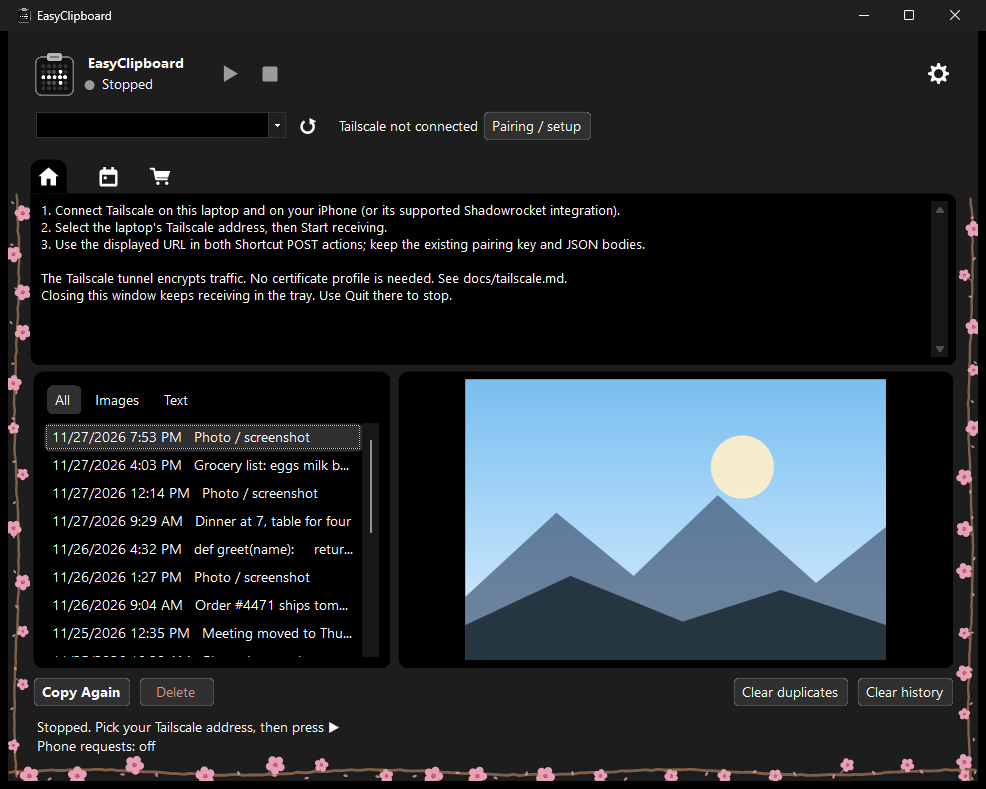
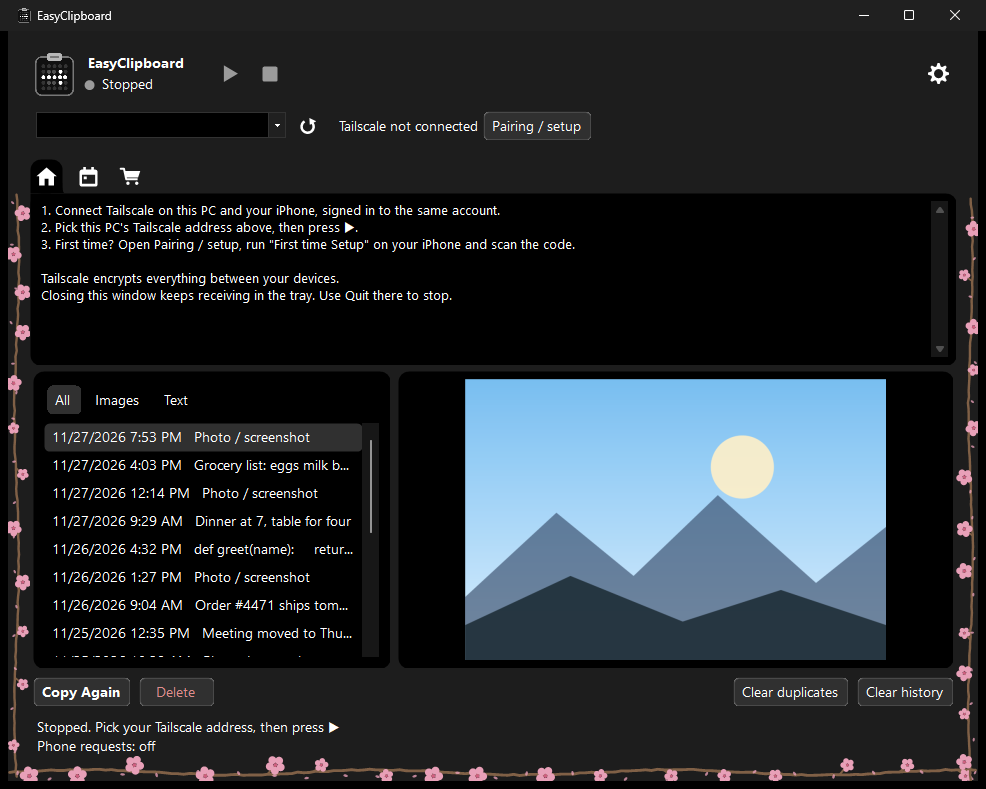
Update the Home setup text for QR pairing
Drop the Shadowrocket mention and the paste-the-URL step; point new users
to Pairing / setup and "First time Setup". Quote the Shortcut name in the
guides and retake the README Home screenshots.

Changed region(s): [[0.0304, 0.2433, 0.6389, 0.365], [0.0304, 0.2129, 0.1826, 0.2433]]

diff --git a/src/EasyClipboard/MainWindow.cs b/src/EasyClipboard/MainWindow.cs
@@ -1365,7 +1365,7 @@ internal sealed class MainWindow : Form
             return;
         }
         _setup.Text = TailscaleMode
-        ? "1. Connect Tailscale on this laptop and on your iPhone (or its supported Shadowrocket integration).\r\n2. Select the laptop's Tailscale address, then Start receiving.\r\n3. Use the displayed URL in both Shortcut POST actions; keep the existing pairing key and JSON bodies.\r\n\r\nThe Tailscale tunnel encrypts traffic. No certificate profile is needed. See docs/tailscale.md.\r\nClosing this window keeps receiving in the tray. Use Quit there to stop."
+        ? "1. Connect Tailscale on this PC and your iPhone, signed in to the same account.\r\n2. Pick this PC's Tailscale address above, then press ▶.\r\n3. First time? Open Pairing / setup, run \"First time Setup\" on your iPhone and scan the code.\r\n\r\nTailscale encrypts everything between your devices.\r\nClosing this window keeps receiving in the tray. Use Quit there to stop."
         : HomeMode
         ? $"1. Keep the iPhone and laptop on the same house Wi-Fi / LAN.\r\n2. Select the laptop's active address above, then Start receiving.\r\n3. Open Pairing / setup for the key, and follow docs/shortcut.md.\r\n\r\n{(HomeHttp ? "HTTP mode needs no iPhone profile. Content and pairing key are unencrypted." : "HTTPS mode requires the verified local certificate profile.")}\r\nClosing this window keeps receiving in the tray. Use Quit there to stop."
         : "1. Start the private hotspot.\r\n2. Open Pairing / setup for Wi-Fi credentials and certificate trust.\r\n3. Follow docs/shortcut.md.\r\n\r\nClosing this window keeps receiving in the tray. Use Quit there to stop.";

diff --git a/docs/install.md b/docs/install.md
@@ -19,7 +19,7 @@ flowchart LR
 > **Tap "Always Allow" on first run.** The first time each Shortcut reads your clipboard, pastes, sends to your PC or saves your info, iPhone asks for permission. Almost every step asks once. Tap **Always Allow** each time. If you tap **Allow Once**, it asks again on every run.
 
 > [!IMPORTANT]
-> **Install First time Setup first.** ECSend and ECReceive use what it saves. If you install them first, your iPhone won't find it and the Shortcuts won't work.
+> **Install "First time Setup" first.** ECSend and ECReceive use what it saves. If you install them first, your iPhone won't find it and the Shortcuts won't work.
 
 | Order | Shortcut | What it does | Install |
 | :---: | --- | --- | --- |
@@ -84,27 +84,27 @@ You run this once, on first use. It pairs your iPhone with your PC.
 That's it. ECSend and ECReceive use these saved values from now on, so you don't need to pick or scan again.
 
 > [!TIP]
-> Can't scan? Click **Copy all** on the PC, get the text onto your iPhone (for example by saving it to a file and choosing **Send with Tailscale**), copy it there, then run First time Setup. It reads the same four lines from the clipboard.
+> Can't scan? Click **Copy all** on the PC, get the text onto your iPhone (for example by saving it to a file and choosing **Send with Tailscale**), copy it there, then run "First time Setup". It reads the same four lines from the clipboard.
 
 > [!NOTE]
 > Screenshot to add: First time Setup after a successful scan.
 <!-- SCREENSHOT: phone-settings-scan.png -->
 
-**Changed something on the PC?** If you revoke the key or your PC gets a new address, just run First time Setup again and scan the new code. You don't need to touch ECSend or ECReceive.
+**Changed something on the PC?** If you revoke the key or your PC gets a new address, just run "First time Setup" again and scan the new code. You don't need to touch ECSend or ECReceive.
 
 ## Step 4. Install ECSend
 
 > [!TIP]
 > It's easier if you open this page in GitHub mobile, or send yourself the [Shortcut links](#shortcut-links) at the end of this page.
 
-Tap **[Get Shortcut][push]**, then **Add Shortcut**. ECSend reads your values from First time Setup and sends photos through Taildrop, which is why that comes first.
+Tap **[Get Shortcut][push]**, then **Add Shortcut**. ECSend reads your values from "First time Setup" and sends photos through Taildrop, which is why that comes first.
 
 ## Step 5. Install ECReceive
 
 > [!TIP]
 > It's easier if you open this page in GitHub mobile, or send yourself the [Shortcut links](#shortcut-links) at the end of this page.
 
-Tap **[Get Shortcut][pull]**, then **Add Shortcut**. ECReceive also reads your values from First time Setup.
+Tap **[Get Shortcut][pull]**, then **Add Shortcut**. ECReceive also reads your values from "First time Setup".
 
 > [!NOTE]
 > ECReceive only works while **Phone fetch** is on in EasyClipboard (Settings → Phone fetch). It's on by default.
@@ -163,10 +163,10 @@ Want both on one button? Make a small menu Shortcut: see [One menu for both](tip
 | "The action could not run because Tailscale is not running" | Open the **Tailscale** app, make sure it's connected, then run the Shortcut again. Keeps happening? On iPhone go to **Settings → Tailscale** and turn on **Background App Refresh**. |
 | It keeps asking for permission | You tapped **Allow Once**. Run it again and tap **Always Allow**. |
 | "Couldn't connect" or a timeout | Is Tailscale on for both devices? Is EasyClipboard showing a green dot? |
-| "…does not match this running receiver's pairing key" | The saved key is old. Run First time Setup and scan the current setup code. |
+| "…does not match this running receiver's pairing key" | The saved key is old. Run "First time Setup" and scan the current setup code. |
 | "…this receiver expects 64" | Extra spaces or the word "Bearer" got pasted into the key. Paste only the 64-character code. |
-| ECSend or ECReceive asks you to pick a Shortcut | You installed them before First time Setup. Install it, or reinstall in order. |
-| Photos don't arrive | Redo the photo check in Step 1. If that fails, **Send Files** is off or Tailscale isn't connected. If it works, run First time Setup again and pick the right PC. |
+| ECSend or ECReceive asks you to pick a Shortcut | You installed them before "First time Setup". Install it, or reinstall in order. |
+| Photos don't arrive | Redo the photo check in Step 1. If that fails, **Send Files** is off or Tailscale isn't connected. If it works, run "First time Setup" again and pick the right PC. |
 | "Turn on Settings → Phone fetch" | Turn on **Settings → Phone fetch** in EasyClipboard, and make sure it's receiving (green dot). |
 | You edited a Shortcut and now it's broken | Compare it with [Inside the Shortcuts](shortcut-structure.md), or reinstall it from the links below. |
 

diff --git a/README.md b/README.md
@@ -55,7 +55,7 @@ EasyClipboard checks for updates when it opens and asks before installing one.
 ## Privacy and security
 
 - History stays on your PC under `%LOCALAPPDATA%\EasyClipboard`, encrypted for your Windows account. Defaults: 30 days, 200 items, 256 MB (**Settings → EasyClipboard → History**).
-- Every transfer needs your **pairing key**. You can replace it any time in **Pairing / setup**; old Shortcuts then stop working until you run First time Setup again.
+- Every transfer needs your **pairing key**. You can replace it any time in **Pairing / setup**; old Shortcuts then stop working until you run "First time Setup" again.
 - Receive only reads the PC clipboard when your Shortcut asks, and only while **Settings → Phone fetch** is on.
 - Nothing is typed or pasted for you, and nothing watches your iPhone's clipboard.
 
